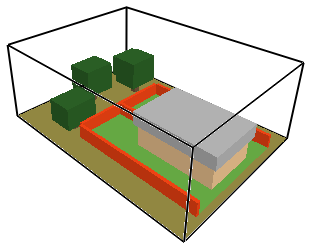
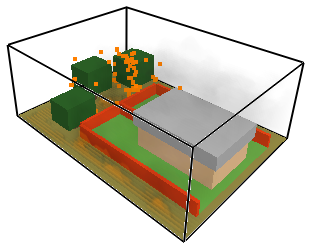
exp 12: fix the volume filenames for a non-wick3c case and re-render

diff --git a/experiments/07_wick3_house_ignition/ign_colour_render.py b/experiments/07_wick3_house_ignition/ign_colour_render.py
@@ -37,7 +37,7 @@ OUT = "igncol"
 GIF = os.path.join(CASE, "ignition_data.gif")
 
 # Data volumes: soot (smoke), flame temperature (flame), firebrands (embers).
-VOLUMES = ["wick3c_1_1.s3d", "wick3c_1_3.s3d", "wick3c_1.prt5"]
+VOLUMES = [CHID + "_1_1.s3d", CHID + "_1_3.s3d", CHID + "_1.prt5"]
 
 BASE = {
     "CANOPY": (40, 90, 35),
